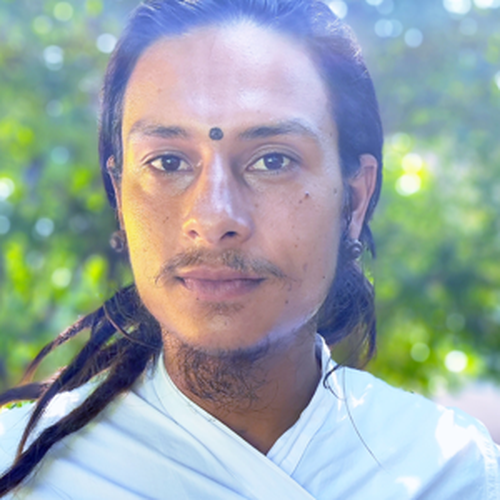
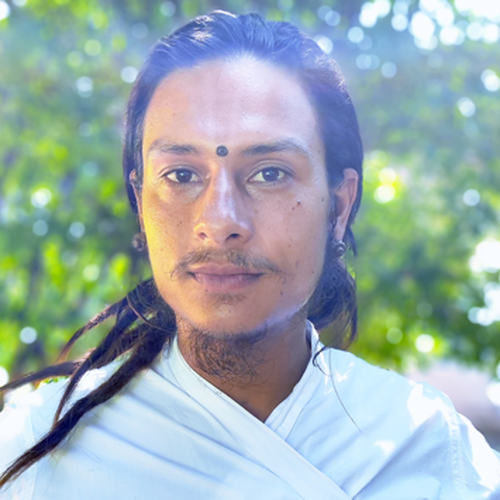
Loosen both portraits to a matched headshot framing and enlarge the frame
pp_white was cropped to 300px, which put its head at 76% of the frame with the chin on the bottom edge — tighter than pp_suit reads. Both are now framed at roughly 60%: pp_suit is padded to 1085px square with its own background colour so its head drops from 76% to 59%, and pp_white is cropped to 355px so its head sits at 63%. Neither is upscaled as aggressively.

The photo frame is larger: 140px on mobile and 176px on desktop, up from 124 and 152.

Verified: measured head fraction 0.628 vs 0.590; avatar computed at 176px; both portraits render as comparable headshots; zero console errors; build clean.

diff --git a/src/lib/components/Hero.svelte b/src/lib/components/Hero.svelte
@@ -55,7 +55,7 @@
   <PolyhedralMorpher />
 
   <button type="button" class="avatar-btn" onclick={togglePortrait} title="Switch portrait" aria-label="Switch portrait">
-    <img class="avatar" src={avatarSrc} alt="" width="152" height="152" />
+    <img class="avatar" src={avatarSrc} alt="" width="176" height="176" />
   </button>
 
   <div class="hero-body">
@@ -129,8 +129,8 @@
   }
 
   .avatar {
-    width: 124px;
-    height: 124px;
+    width: 140px;
+    height: 140px;
     object-fit: cover;
     border-radius: 14px;
     border: 1px solid var(--hairline);
@@ -150,7 +150,7 @@
   }
 
   @media (min-width: 640px) {
-    .avatar { width: 152px; height: 152px; }
+    .avatar { width: 176px; height: 176px; }
   }
 
   .hero-body {
